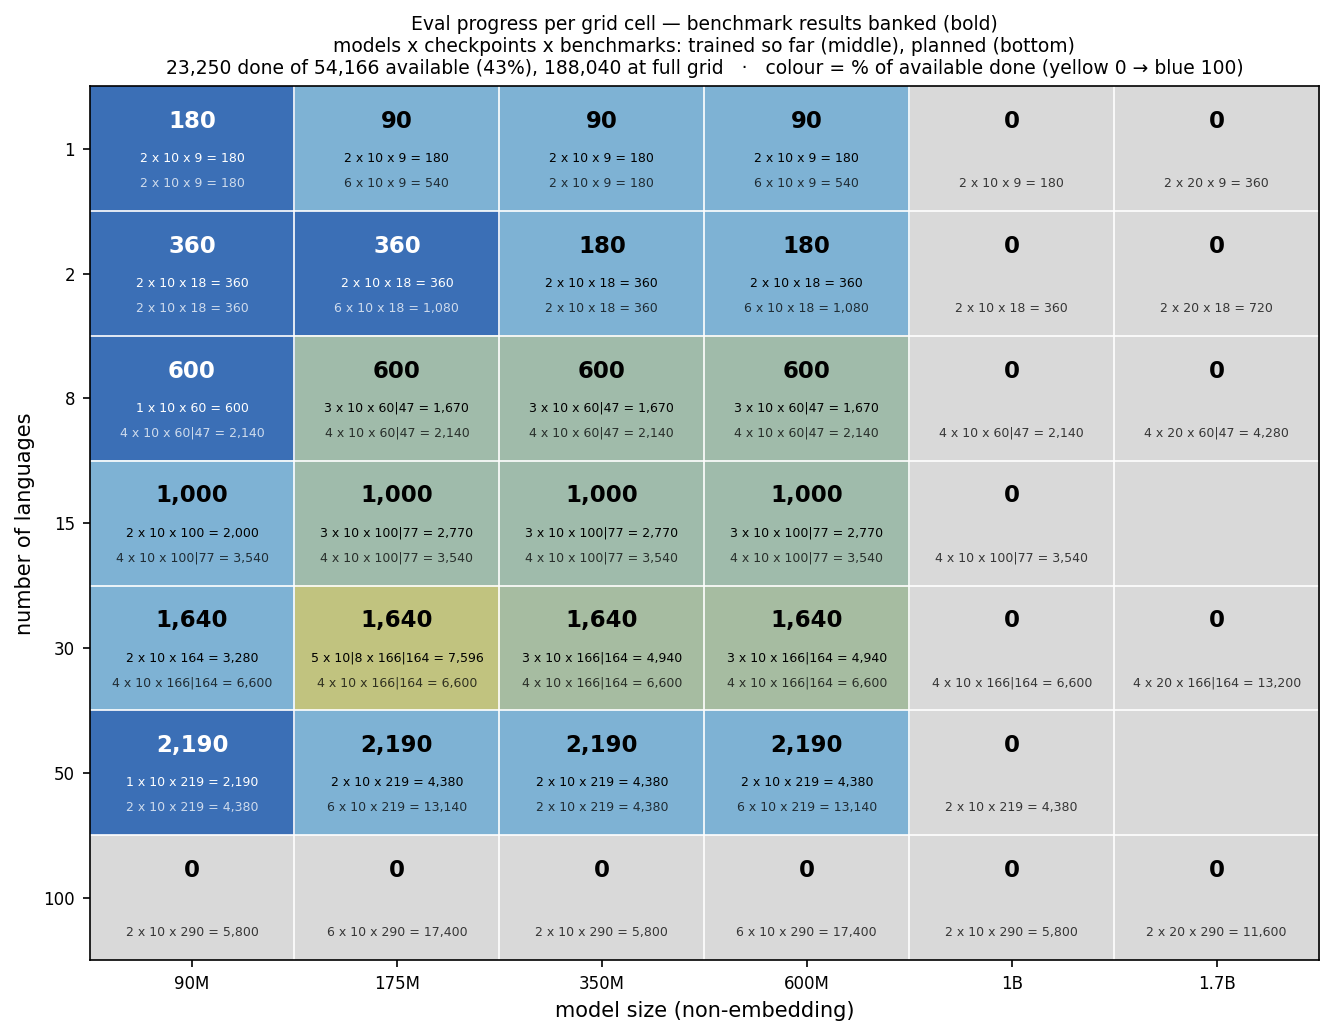
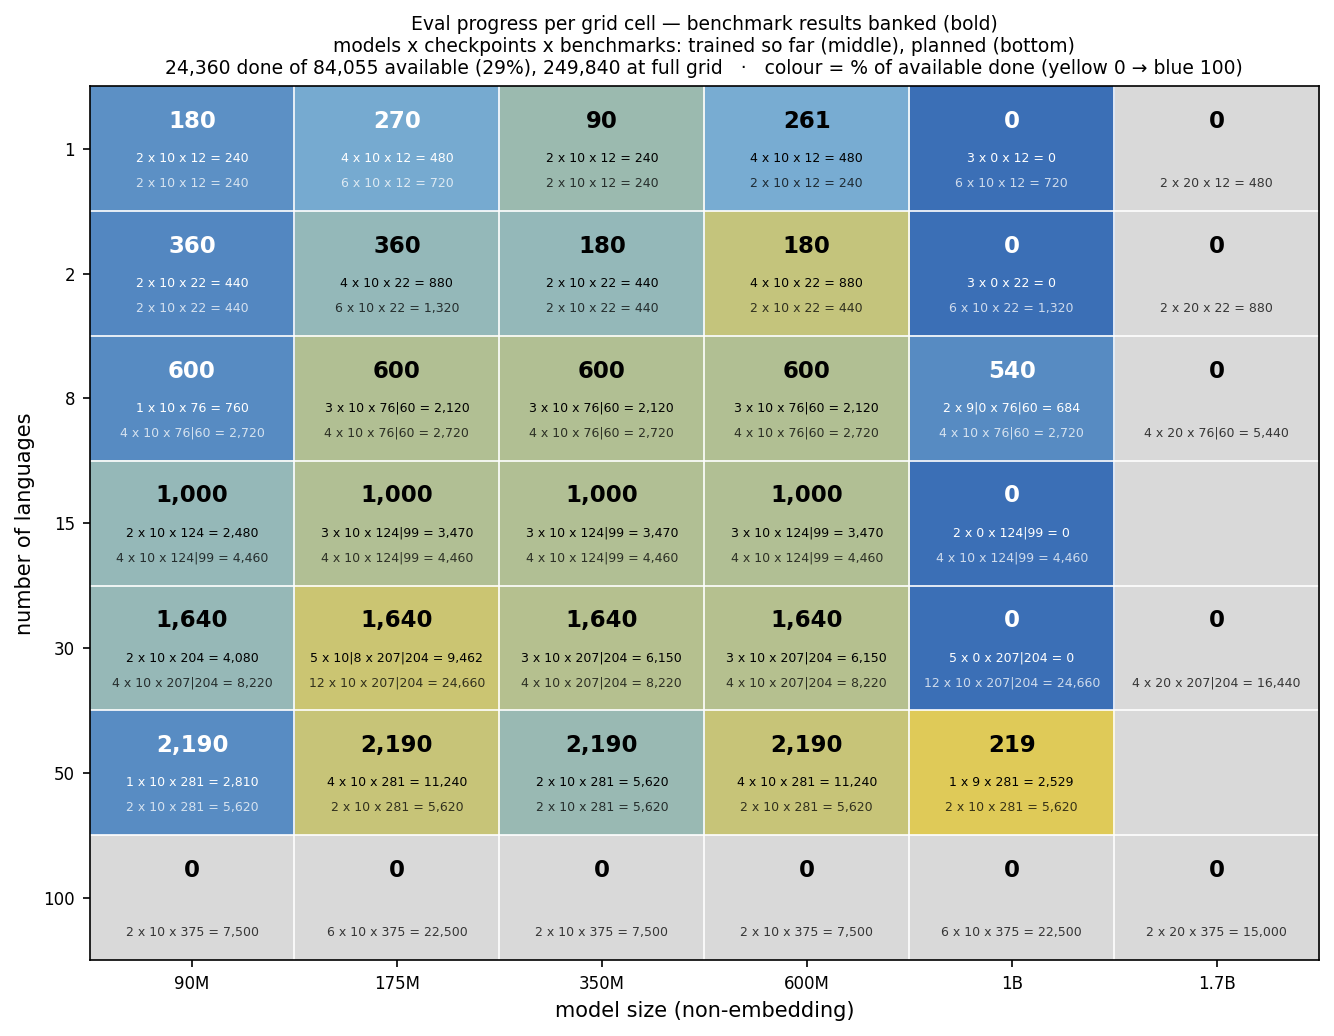
update progress

diff --git a/src/pretrain/auto_evals_cscs.py b/src/pretrain/auto_evals_cscs.py
@@ -10,6 +10,8 @@ Idempotent, safe to run alongside the trainings (login node, tmux):
 
     cd src/pretrain
     python3.11 auto_evals_cscs.py --watch 600     # one pass every 10 min
+    python3.11 auto_evals_cscs.py --name lm-175M-L1-deep-seed1904 --max-submit 2
+    python3.11 auto_evals_cscs.py --convert-only
 
 The eval job pushes to W&B with the key from your environment or, as
 everywhere else in the cluster pipeline, from the fallback file

diff --git a/plan/status-09-03.md b/plan/status-09-03.md
@@ -1,0 +1,22 @@
+# TODOs
+
+bash evals/scripts/launch_bpb.sh
+python3.11 pretrain/auto_evals_cscs.py --convert-only
+pkill -f auto_evals_cscs.py  # kill eval watcher(s)
+
+## Pretraining
+
+Finish my 1B pretraining jobs:
+python3.11 pretrain/launch_trainings.py cscs --arch deep --size 1B --seed 1904 --langs 8 --dry-run 
+python3.11 pretrain/launch_trainings.py cscs --arch deep --size 1B --seed 1904 --langs 50 --dry-run 
+
+Add the 28 and 1797 seeds to 1B grid (aromanou).
+
+Launch 1.7B pretrainings: L1, L8, L8B, L30, L30B
+python3.11 pretrain/launch_trainings.py cscs --arch deep --size 1.7B --seed 1904 --langs 30 --scheme B --no-auto-evals 
+
+## Evals
+
+Test full eval of an L50 models to verify all new "auto" benchmarks work properly -> BATCH = 0 and time 12h. Job ID 3285073.
+python3.11 pretrain/auto_evals_cscs.py --name lm-175M-L50-deep-seed1904 --max-submit 1
+
